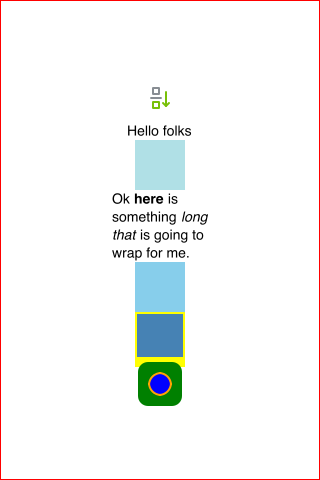
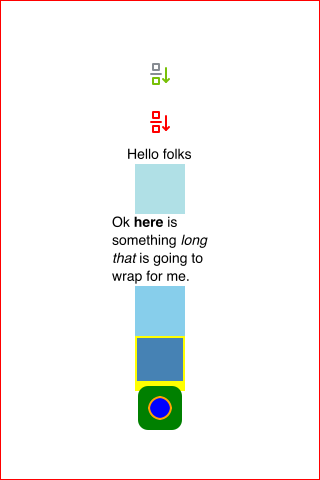
go back to using the non-prebuilt version

Changed region(s): [[0.3438, 0.375, 0.6562, 0.5938], [0.4062, 0.625, 0.5938, 0.9062], [0.375, 0.125, 0.5938, 0.3438]]

diff --git a/src/__tests__/Basic.test.tsx b/src/__tests__/Basic.test.tsx
@@ -10,7 +10,7 @@ import * as renderer from "react-test-renderer"
 import * as fs from 'fs'
 
 describe("Counting nodes", () => {
-    it("it is good with memory", () => {
+    it("it is good with memory", async () => {
 
       const jsx =
         <View style={{
@@ -22,6 +22,7 @@ describe("Counting nodes", () => {
           alignItems: "center",
         }}>
         <Image source={require('./example.png')} />
+        <Image source={require('./example.png')} style={{tintColor: 'red'}} />
         <Text>Hello folks</Text>
         <View style={{width: 50, height: 50, backgroundColor: "powderblue"}} />
         <Text style={{maxWidth: 100}}>
@@ -52,7 +53,7 @@ describe("Counting nodes", () => {
       const node = layoutNode(component, settings)
       const svg = renderToSVG(node, settings)
       fs.writeFileSync(__dirname + '/Basic.test.svg', svg)
-      renderToCanvas(__dirname + '/Basic.test.png', node, settings)
+      await renderToCanvas(__dirname + '/Basic.test.png', node, settings)
       // expect(component).toMatchSVGSnapshot(320, 480)
     })
 })

diff --git a/src/index.ts b/src/index.ts
@@ -3,7 +3,7 @@ import treeToSVG from "./svg/tree-to-svg"
 import treeToCanvas from "./canvas"
 import layoutRoot, {Component, Settings} from './layout/'
 
-const {registerFont: registerCanvasFont} = require('canvas-prebuilt/canvas')
+const {registerFont: registerCanvasFont} = require('canvas')
 export {registerCanvasFont}
 
 export {Component, Settings}

diff --git a/src/canvas/index.ts b/src/canvas/index.ts
@@ -7,7 +7,7 @@ import * as path from 'path'
 import drawText from './drawText'
 import fetch from 'node-fetch'
 
-import {createCanvas, Image} from 'canvas-prebuilt/canvas'
+import {createCanvas, Image} from 'canvas'
 
 const getOpacity = node => {
   const {opacity = 1} = styleFromComponent(node)
